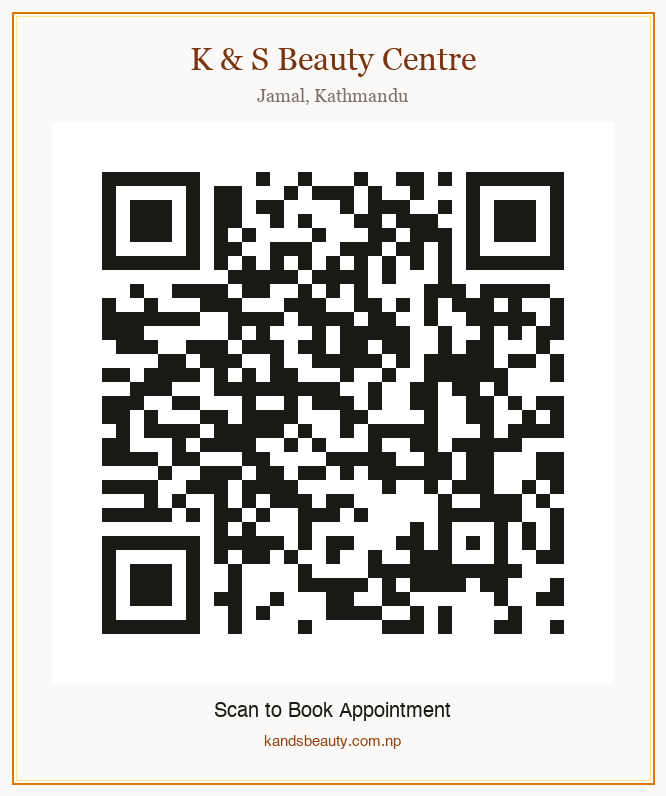
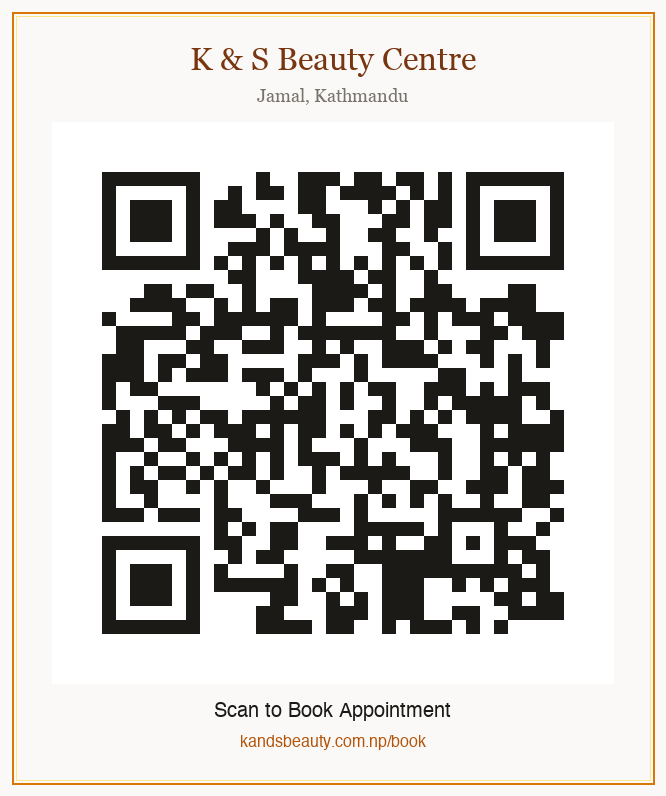
Auto-open booking modal via ?book=true and /book redirect with updated QR code

Changed region(s): [[0.1502, 0.2111, 0.8709, 0.8141], [0.3604, 0.9045, 0.6306, 0.9648]]

diff --git a/components/booking/BookingProvider.tsx b/components/booking/BookingProvider.tsx
@@ -1,6 +1,15 @@
 "use client";
 
-import { createContext, useCallback, useContext, useMemo, useState } from "react";
+import {
+  createContext,
+  useCallback,
+  useContext,
+  useEffect,
+  useMemo,
+  useState,
+  Suspense,
+} from "react";
+import { useSearchParams } from "next/navigation";
 import { BookingModal } from "./BookingModal";
 
 interface BookingContextValue {
@@ -10,6 +19,23 @@ interface BookingContextValue {
 const BookingContext = createContext<BookingContextValue>({
   openBooking: () => {},
 });
+
+function UrlBookingSync({
+  openBooking,
+}: {
+  openBooking: (service?: string) => void;
+}) {
+  const searchParams = useSearchParams();
+
+  useEffect(() => {
+    if (searchParams.get("book") === "true") {
+      const serviceParam = searchParams.get("service") || undefined;
+      openBooking(serviceParam);
+    }
+  }, [searchParams, openBooking]);
+
+  return null;
+}
 
 export function BookingProvider({ children }: { children: React.ReactNode }) {
   const [isOpen, setIsOpen] = useState(false);
@@ -29,6 +55,9 @@ export function BookingProvider({ children }: { children: React.ReactNode }) {
 
   return (
     <BookingContext.Provider value={value}>
+      <Suspense fallback={null}>
+        <UrlBookingSync openBooking={openBooking} />
+      </Suspense>
       {children}
       <BookingModal
         key={openCount}

diff --git a/app/admin/(authenticated)/organization/page.tsx b/app/admin/(authenticated)/organization/page.tsx
@@ -276,7 +276,7 @@ export default function OrganizationPage() {
                 <div>
                   <h4 className="text-sm font-semibold">Salon Booking Stand Card</h4>
                   <p className="text-xs text-muted-foreground mt-0.5">
-                    Encodes direct link: <code className="text-primary font-mono font-medium">https://kandsbeauty.com.np/#home</code>
+                    Direct booking URL: <code className="text-primary font-mono font-medium">https://kandsbeauty.com.np/book</code>
                   </p>
                 </div>
                 <div className="flex flex-wrap gap-2 justify-center sm:justify-start">

diff --git a/next.config.ts b/next.config.ts
@@ -1,6 +1,25 @@
 import type { NextConfig } from "next";
 
 const nextConfig: NextConfig = {
+  async redirects() {
+    return [
+      {
+        source: "/book",
+        destination: "/?book=true",
+        permanent: false,
+      },
+      {
+        source: "/booking",
+        destination: "/?book=true",
+        permanent: false,
+      },
+      {
+        source: "/appointment",
+        destination: "/?book=true",
+        permanent: false,
+      },
+    ];
+  },
   images: {
     remotePatterns: [
       {
